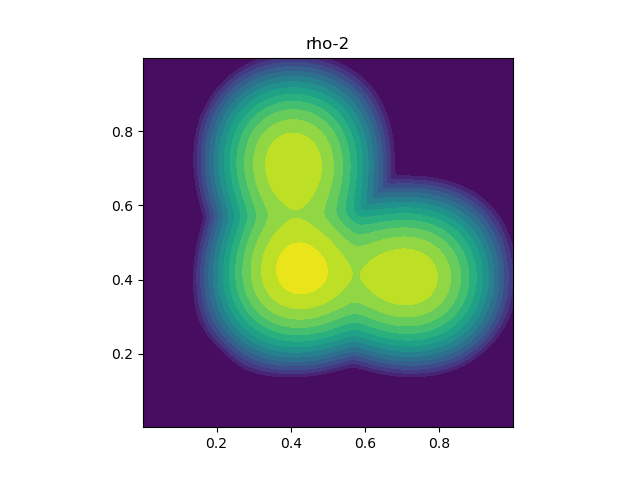
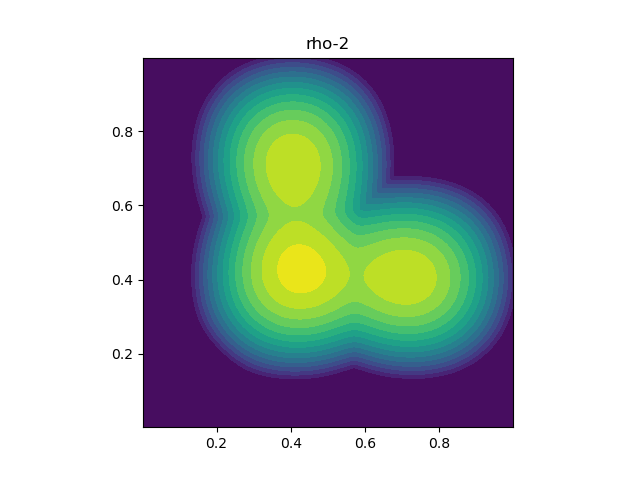
added

diff --git a/python/BFM-porous.py b/python/BFM-porous.py
@@ -52,9 +52,7 @@ def iterate_forward(flt2d, method, push, psi, phi, mu, DUstar, V, kernel, n, tau
     flt2d.find_c_concave(psi, phi, tau)
     flt2d.find_c_concave(phi, psi, tau)
 
-    # bfmgf.calculate_DUstar(DUstar, V, phi, n, n, tau)
     method.calculate_DUstar(DUstar, phi, V, m, mass)
-
     method.compute_push_forth(push, phi, psi, mu)
 
     u = np.zeros((n,n))
@@ -152,9 +150,8 @@ for jj in range(1,21): # total number of outer iterations rho^0, rho^1, ..., rho
 
         error_for_prev = error_for
         error_bac_prev = error_bac
-    DUstar[:] = ((m-1)/m * (-phi-V))**(1/(m-1))
-    DUstar[DUstar < 0] = 0
-    DUstar /= DUstar.mean() / mass
+        
+    method.calculate_DUstar(DUstar, phi, V, m, mass)
     mu[:] = DUstar
 
     # saving figures
